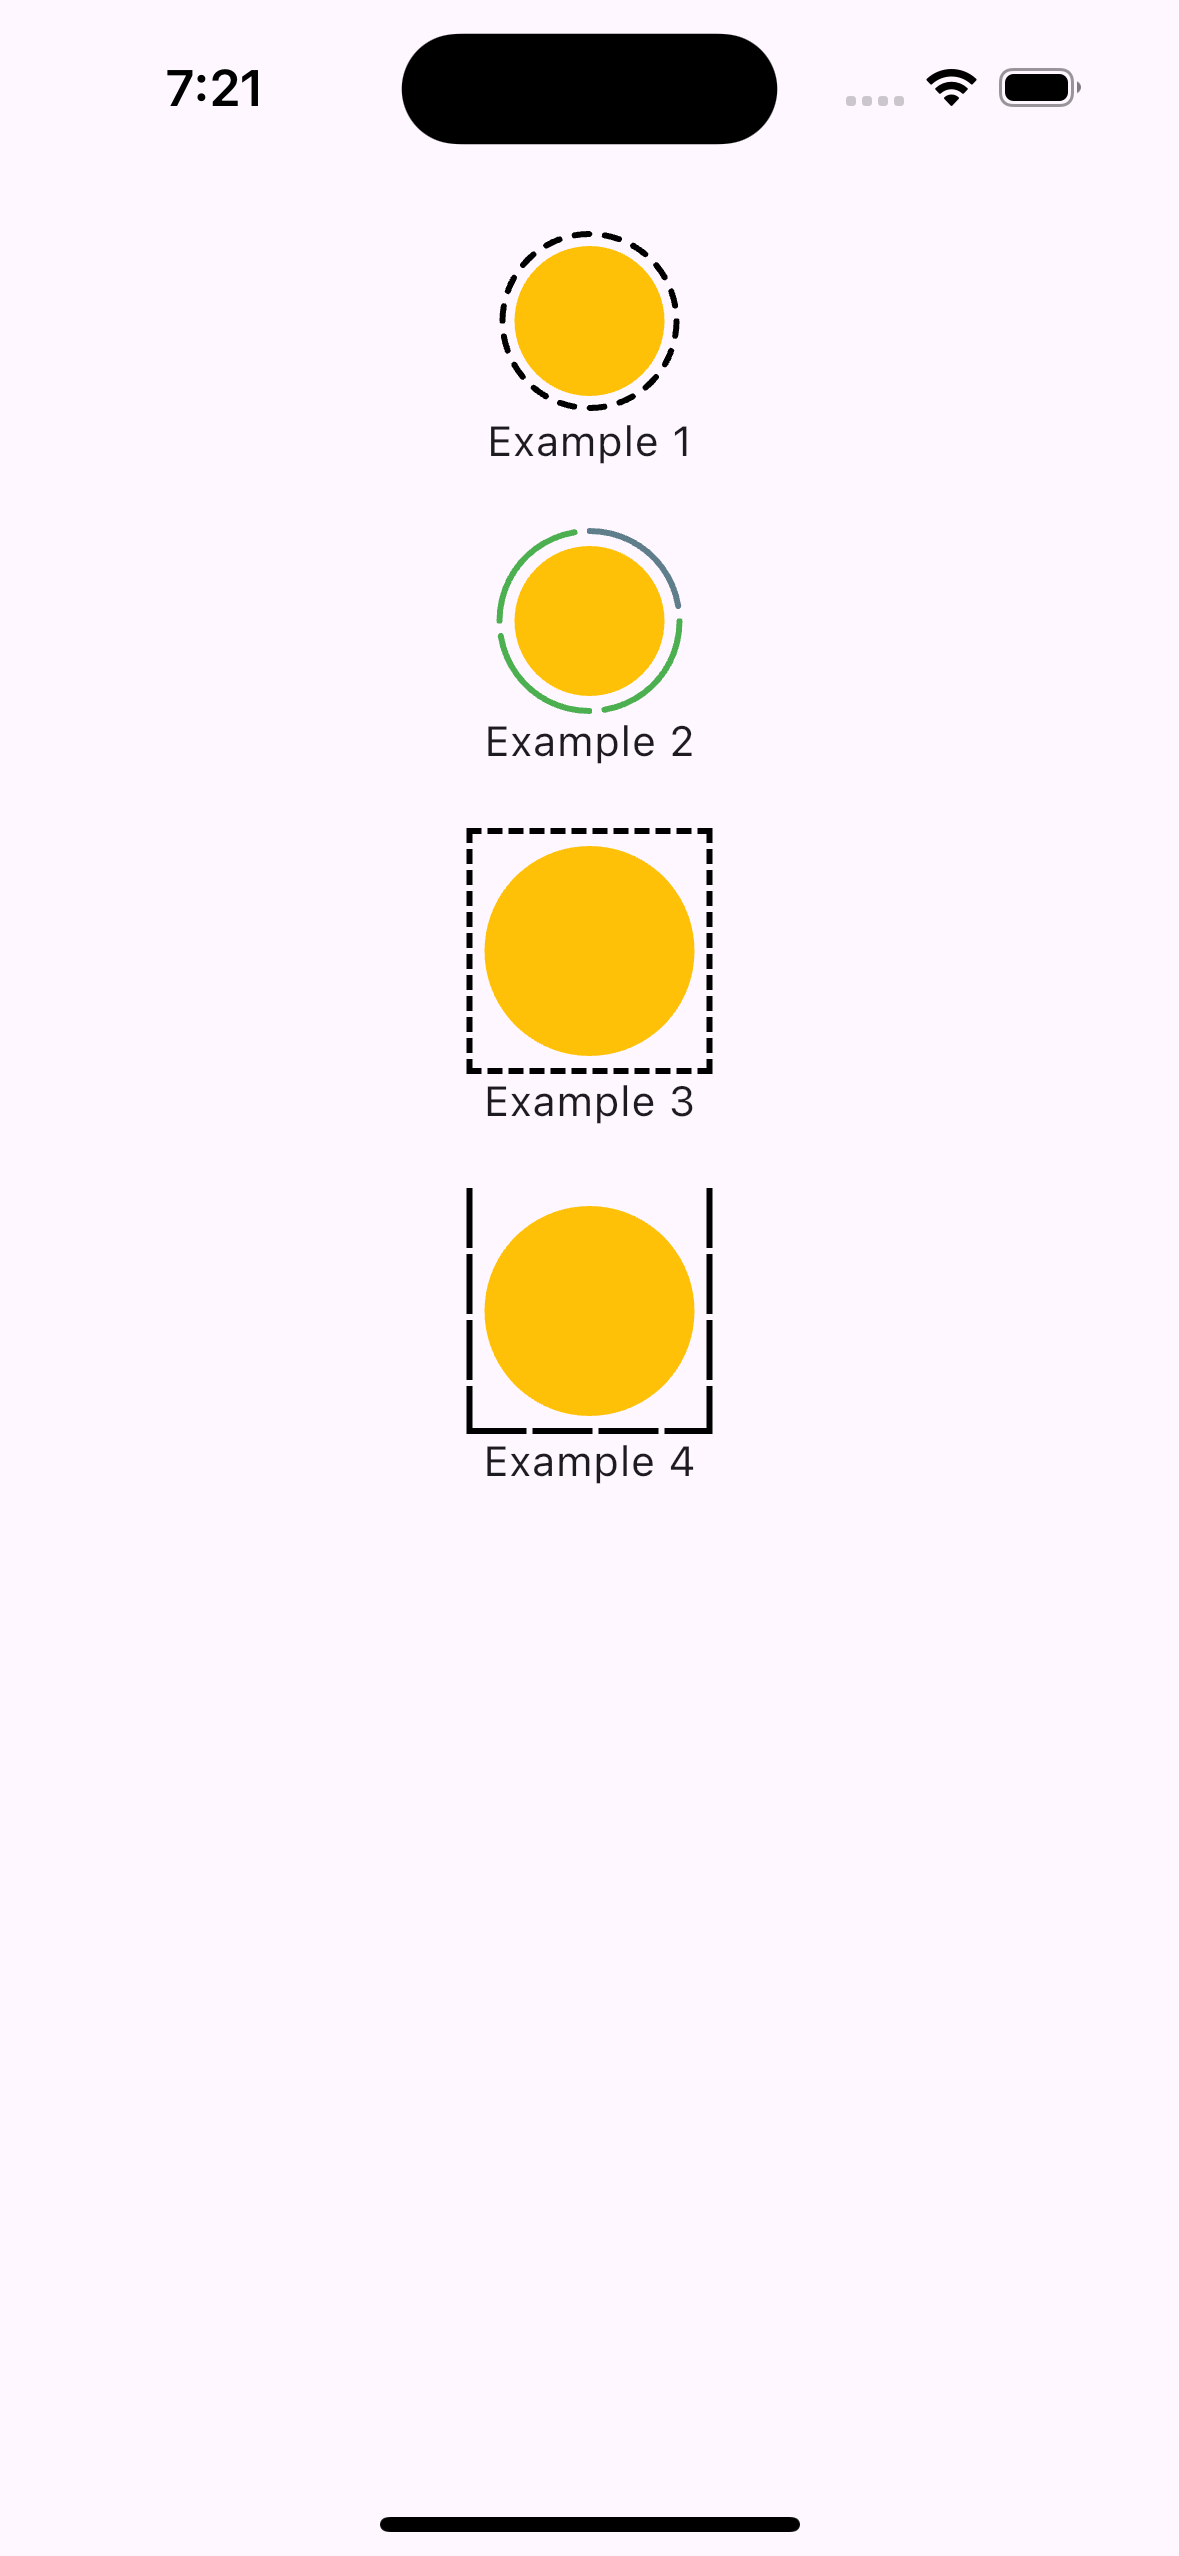
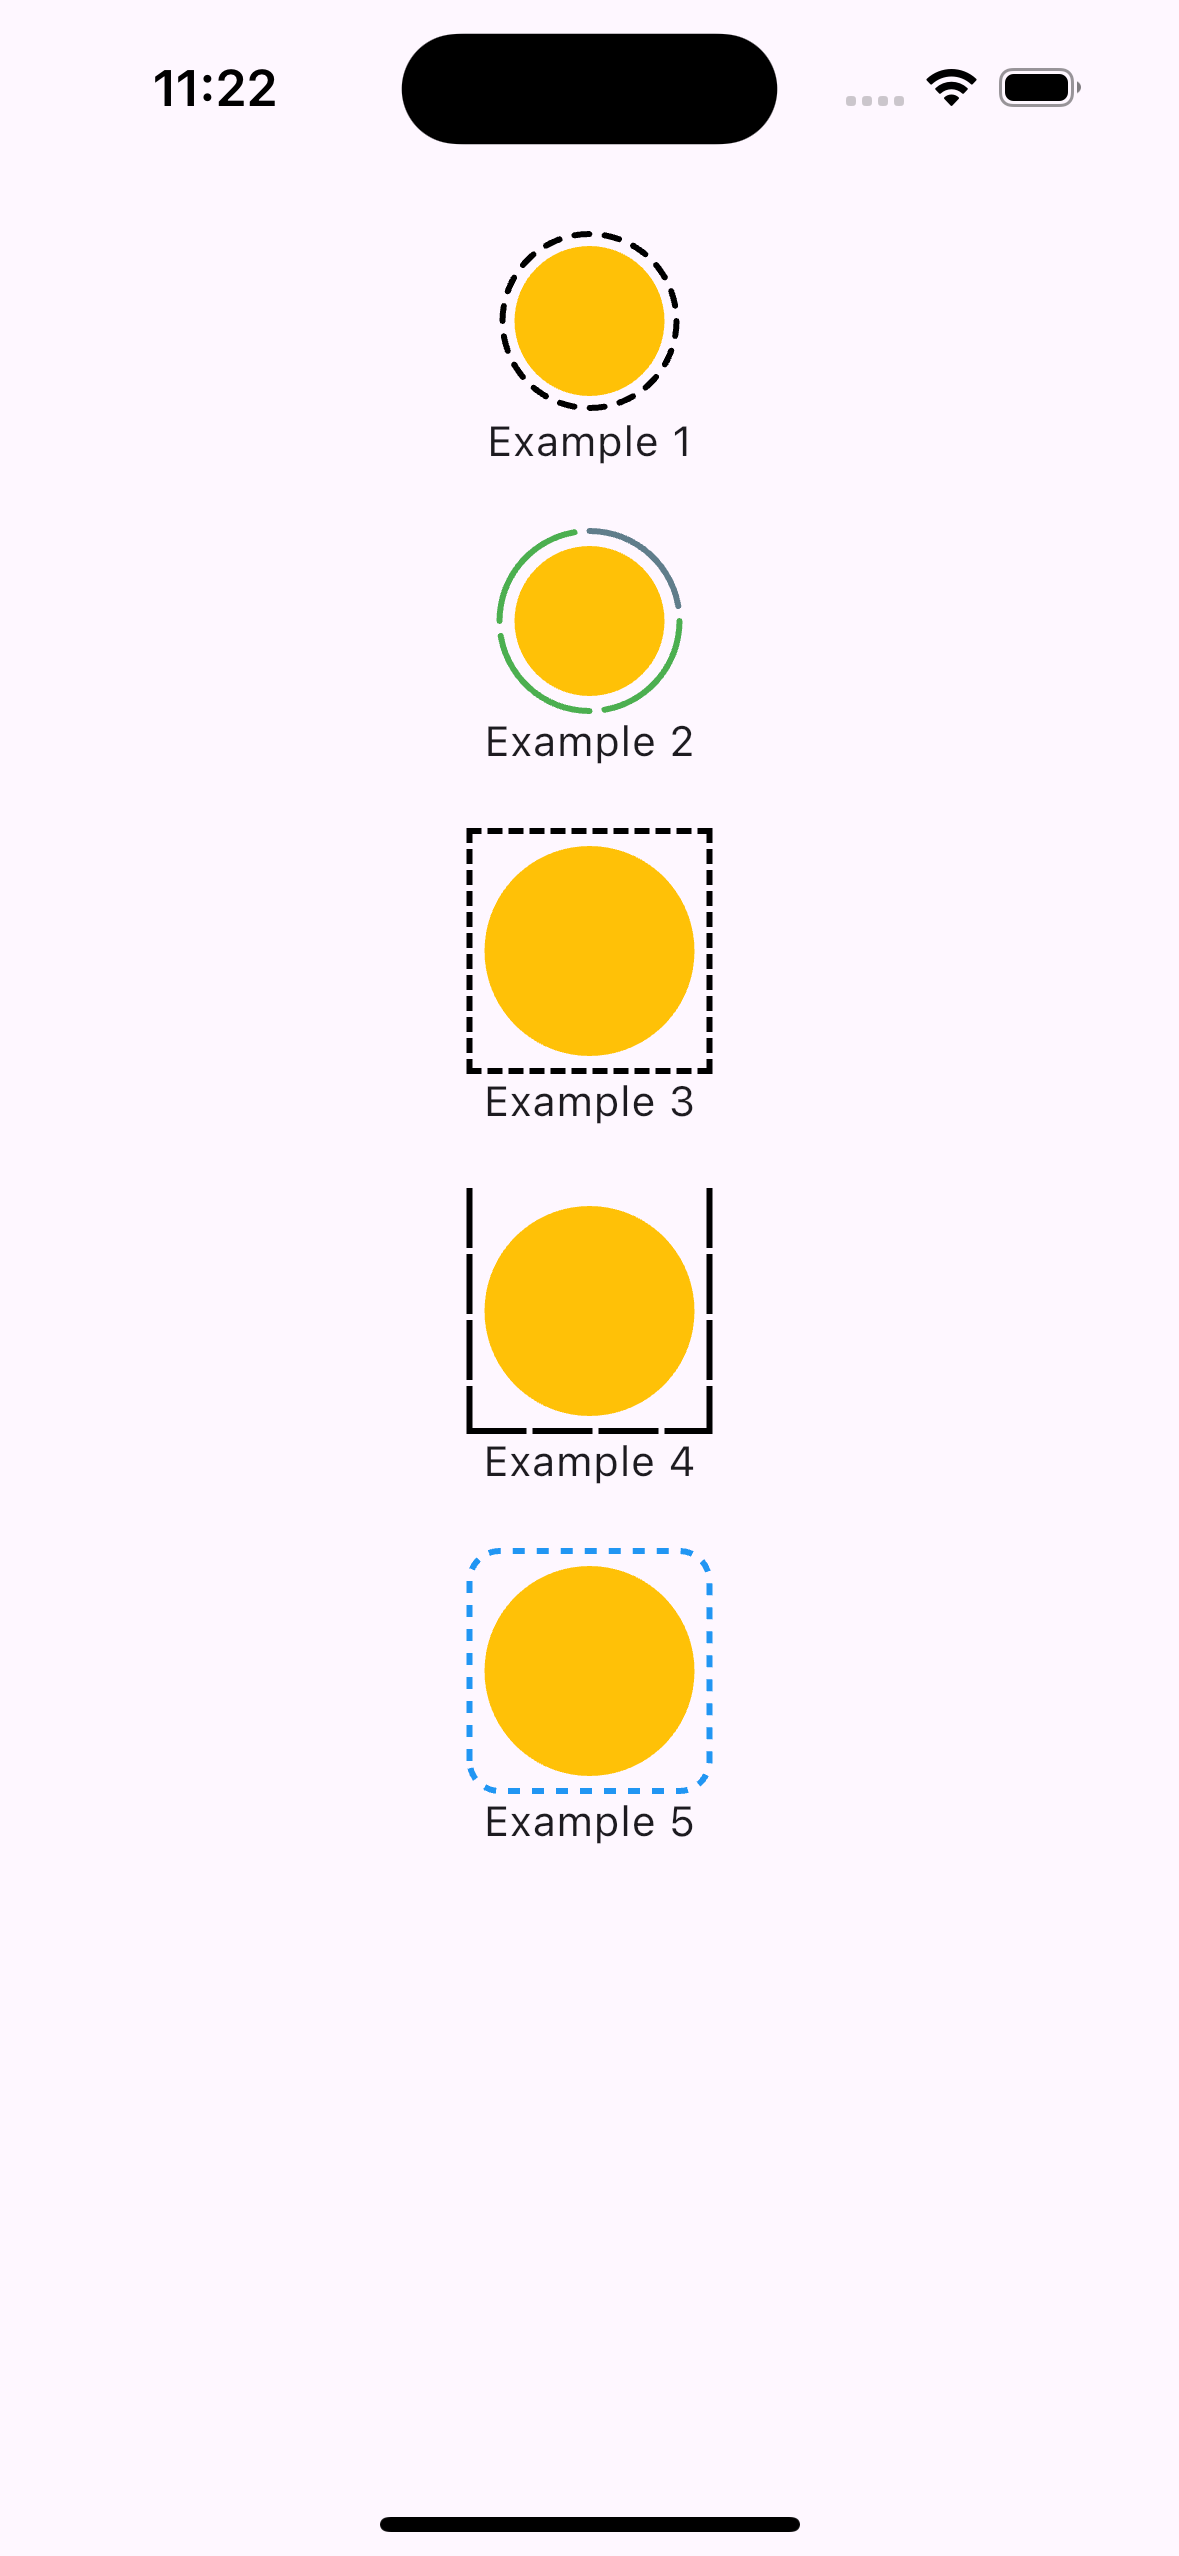
added RoundedRectDottedBorder

Changed region(s): [[0.3969, 0.5872, 0.6107, 0.7418], [0.1221, 0.0309, 0.2443, 0.0618]]

diff --git a/lib/src/circular_dotted_border.dart b/lib/src/circular_dotted_border.dart
@@ -30,12 +30,12 @@ class DottedCircularBorderByNumber extends CircularBorderType {
     this.inactiveColor = Colors.grey,
     this.strokeWidth = 2,
     this.dashGap = 5,
-  }) : assert(numberOfDashes > 0, 'numberOfDashes must be greater than 0.'),
-       assert(activeCount >= 0, 'activeCount cannot be negative.'),
-       assert(
-         activeCount <= numberOfDashes,
-         'activeCount cannot be greater than numberOfDashes.',
-       );
+  })  : assert(numberOfDashes > 0, 'numberOfDashes must be greater than 0.'),
+        assert(activeCount >= 0, 'activeCount cannot be negative.'),
+        assert(
+          activeCount <= numberOfDashes,
+          'activeCount cannot be greater than numberOfDashes.',
+        );
 
   @override
   void paint(Canvas canvas, Size size, Offset offset) {
@@ -51,19 +51,17 @@ class DottedCircularBorderByNumber extends CircularBorderType {
 
     final radius = rect.width / 2;
 
-    final activePaint =
-        Paint()
-          ..color = activeColor
-          ..strokeCap = StrokeCap.round
-          ..strokeWidth = strokeWidth
-          ..style = PaintingStyle.stroke;
+    final activePaint = Paint()
+      ..color = activeColor
+      ..strokeCap = StrokeCap.round
+      ..strokeWidth = strokeWidth
+      ..style = PaintingStyle.stroke;
 
-    final inactivePaint =
-        Paint()
-          ..color = inactiveColor
-          ..strokeCap = StrokeCap.round
-          ..strokeWidth = strokeWidth
-          ..style = PaintingStyle.stroke;
+    final inactivePaint = Paint()
+      ..color = inactiveColor
+      ..strokeCap = StrokeCap.round
+      ..strokeWidth = strokeWidth
+      ..style = PaintingStyle.stroke;
 
     // Convert pixel gap into angle gap
     double gapAngle = dashGap / radius;
@@ -108,12 +106,11 @@ class DefaultDottedCircularBorder extends CircularBorderType {
 
   @override
   void paint(Canvas canvas, Size size, Offset offset) {
-    final Paint paint =
-        Paint()
-          ..color = color
-          ..strokeWidth = strokeWidth
-          ..style = PaintingStyle.stroke
-          ..strokeCap = StrokeCap.round;
+    final Paint paint = Paint()
+      ..color = color
+      ..strokeWidth = strokeWidth
+      ..style = PaintingStyle.stroke
+      ..strokeCap = StrokeCap.round;
 
     final center = Offset(
       offset.dx + size.width / 2,

diff --git a/lib/src/rounded_rect_dotted_border.dart b/lib/src/rounded_rect_dotted_border.dart
@@ -1,0 +1,52 @@
+import 'dart:ui';
+
+import 'package:flutter/material.dart';
+import 'package:flutter_dotted_border/flutter_dotted_border.dart';
+
+class RoundedRectDottedBorder extends BorderType {
+  final double strokeWidth;
+  final Color color;
+  final double dashGap;
+  final double dashWidth;
+  final Radius radius;
+
+  /// Creates a rounded rectangle dotted border
+  ///
+  /// Customize [radius] for desired corner radius. Also see [Radius] for more info.
+  const RoundedRectDottedBorder(
+      {this.color = Colors.black,
+      this.dashGap = 2.0,
+      this.dashWidth = 4.0,
+      this.strokeWidth = 2.0,
+      this.radius = const Radius.circular(10)});
+  @override
+  void paint(Canvas canvas, Size size, Offset offset) {
+    final paint = Paint()
+      ..color = color
+      ..strokeWidth = strokeWidth
+      ..style = PaintingStyle.stroke;
+
+    final left = offset.dx;
+    final top = offset.dy;
+    final right = offset.dx + size.width;
+    final bottom = offset.dy + size.height;
+
+    final rrect = RRect.fromRectAndRadius(
+        Rect.fromLTRB(left, top, right, bottom), radius);
+
+    final path = Path()..addRRect(rrect);
+
+    final metrics = path.computeMetrics();
+
+    for (PathMetric metric in metrics) {
+      double distance = 0.0;
+
+      while (distance < metric.length) {
+        double clamppedEnd = (distance + dashWidth).clamp(0, metric.length);
+        final drawablePath = metric.extractPath(distance, clamppedEnd);
+        canvas.drawPath(drawablePath, paint);
+        distance += dashGap + dashWidth;
+      }
+    }
+  }
+}

diff --git a/example/lib/main.dart b/example/lib/main.dart
@@ -5,7 +5,8 @@ import 'package:flutter_dotted_border/flutter_dotted_border.dart'
         DefaultDottedCircularBorder,
         DottedBorder,
         DottedCircularBorderByNumber,
-        RectDottedBorder;
+        RectDottedBorder,
+        RoundedRectDottedBorder;
 
 void main() {
   runApp(const MyApp());
@@ -113,6 +114,32 @@ class MyApp extends StatelessWidget {
                   ),
                 ),
                 Text("Example 4"),
+
+                SizedBox(height: 20),
+                Align(
+                  alignment: Alignment.center,
+                  child: DottedBorder(
+                    borderType: RoundedRectDottedBorder(
+                      color: Colors.blue,
+                      dashGap: 4,
+                      dashWidth: 4,
+                      strokeWidth: 2,
+                      radius: Radius.circular(10),
+                    ),
+                    child: Padding(
+                      padding: EdgeInsets.all(5),
+                      child: Container(
+                        decoration: BoxDecoration(
+                          shape: BoxShape.circle,
+                          color: Colors.amber,
+                        ),
+                        height: 70,
+                        width: 70,
+                      ),
+                    ),
+                  ),
+                ),
+                Text("Example 5"),
               ],
             ),
           ),

diff --git a/lib/src/rect_dotted_border.dart b/lib/src/rect_dotted_border.dart
@@ -29,11 +29,10 @@ class RectDottedBorder extends BorderType {
 
   @override
   void paint(Canvas canvas, Size size, Offset offset) {
-    final Paint paint =
-        Paint()
-          ..color = color
-          ..strokeWidth = strokeWidth
-          ..style = PaintingStyle.stroke;
+    final Paint paint = Paint()
+      ..color = color
+      ..strokeWidth = strokeWidth
+      ..style = PaintingStyle.stroke;
 
     final left = offset.dx;
     final top = offset.dy;

diff --git a/lib/src/dotted_border.dart b/lib/src/dotted_border.dart
@@ -35,7 +35,7 @@ class DottedBorderRenderObject extends RenderProxyBox {
   BorderType _borderType;
 
   DottedBorderRenderObject({required BorderType borderType})
-    : _borderType = borderType;
+      : _borderType = borderType;
 
   set borderType(BorderType value) {
     if (value == _borderType) return;

diff --git a/lib/flutter_dotted_border.dart b/lib/flutter_dotted_border.dart
@@ -4,3 +4,4 @@ export 'src/dotted_border.dart';
 export 'src/border_types.dart';
 export 'src/circular_dotted_border.dart';
 export 'src/rect_dotted_border.dart';
+export 'src/rounded_rect_dotted_border.dart';

diff --git a/README.md b/README.md
@@ -7,6 +7,7 @@ Supports custom dash count, colors, active/inactive segments, and flexible styli
 
 - Add circular dotted borders with multiple colors (e.g., active vs inactive dashes)
 - Add rectangular dotted borders with options to exclude specific sides
+- Add rounded rectangular border
 - Fully customizable: dash width, gap, stroke, colors, active count, etc.
 - Works with any widget and layout
 - Lightweight and does not rely on heavy dependencies
@@ -25,11 +26,12 @@ Feel free to use it in production, but be aware that APIs may evolve in upcoming
 Add the dependency:
 
 dependencies:
-  flutter_dotted_border: ^0.0.1
+flutter_dotted_border: ^0.0.2
 
 🧩 Usage
 
 Rectangular Dotted Border
+
 ```dart
 DottedBorder(
   borderType: RectDottedBorder(
@@ -63,6 +65,32 @@ DottedBorder(
 )
 ```
 
+Rounded Rectangular Border
+
+```dart
+DottedBorder(
+  borderType: RoundedRectDottedBorder(
+    color: Colors.blue,
+    dashGap: 4,
+    dashWidth: 4,
+    strokeWidth: 2,
+    radius: Radius.circular(10),
+  ),
+  child: Padding(
+    padding: EdgeInsets.all(5),
+    child: Container(
+      height: 70,
+      width: 70,
+      decoration: BoxDecoration(
+        shape: BoxShape.circle,
+        color: Colors.amber,
+      ),
+    ),
+  ),
+)
+
+```
+
 📚 Additional Information
 
 Issues & feature requests:
@@ -74,7 +102,6 @@ Contributions are welcome! PRs, bug reports, and suggestions help improve the pa
 
 Roadmap:
 
-- Support rounded rectangular border
 - Support gradients
 - Support animated dash transitions
 - Add more border shapes

diff --git a/CHANGELOG.md b/CHANGELOG.md
@@ -3,3 +3,8 @@
 - Initial release with rectangular and circular dotted borders
 - Support for active/inactive dash states
 - Customize colors, stroke width, and dash patterns
+
+## 0.0.2
+
+- Added `RoundedRectDottedBorder` with customizable radius
+- Updated README
